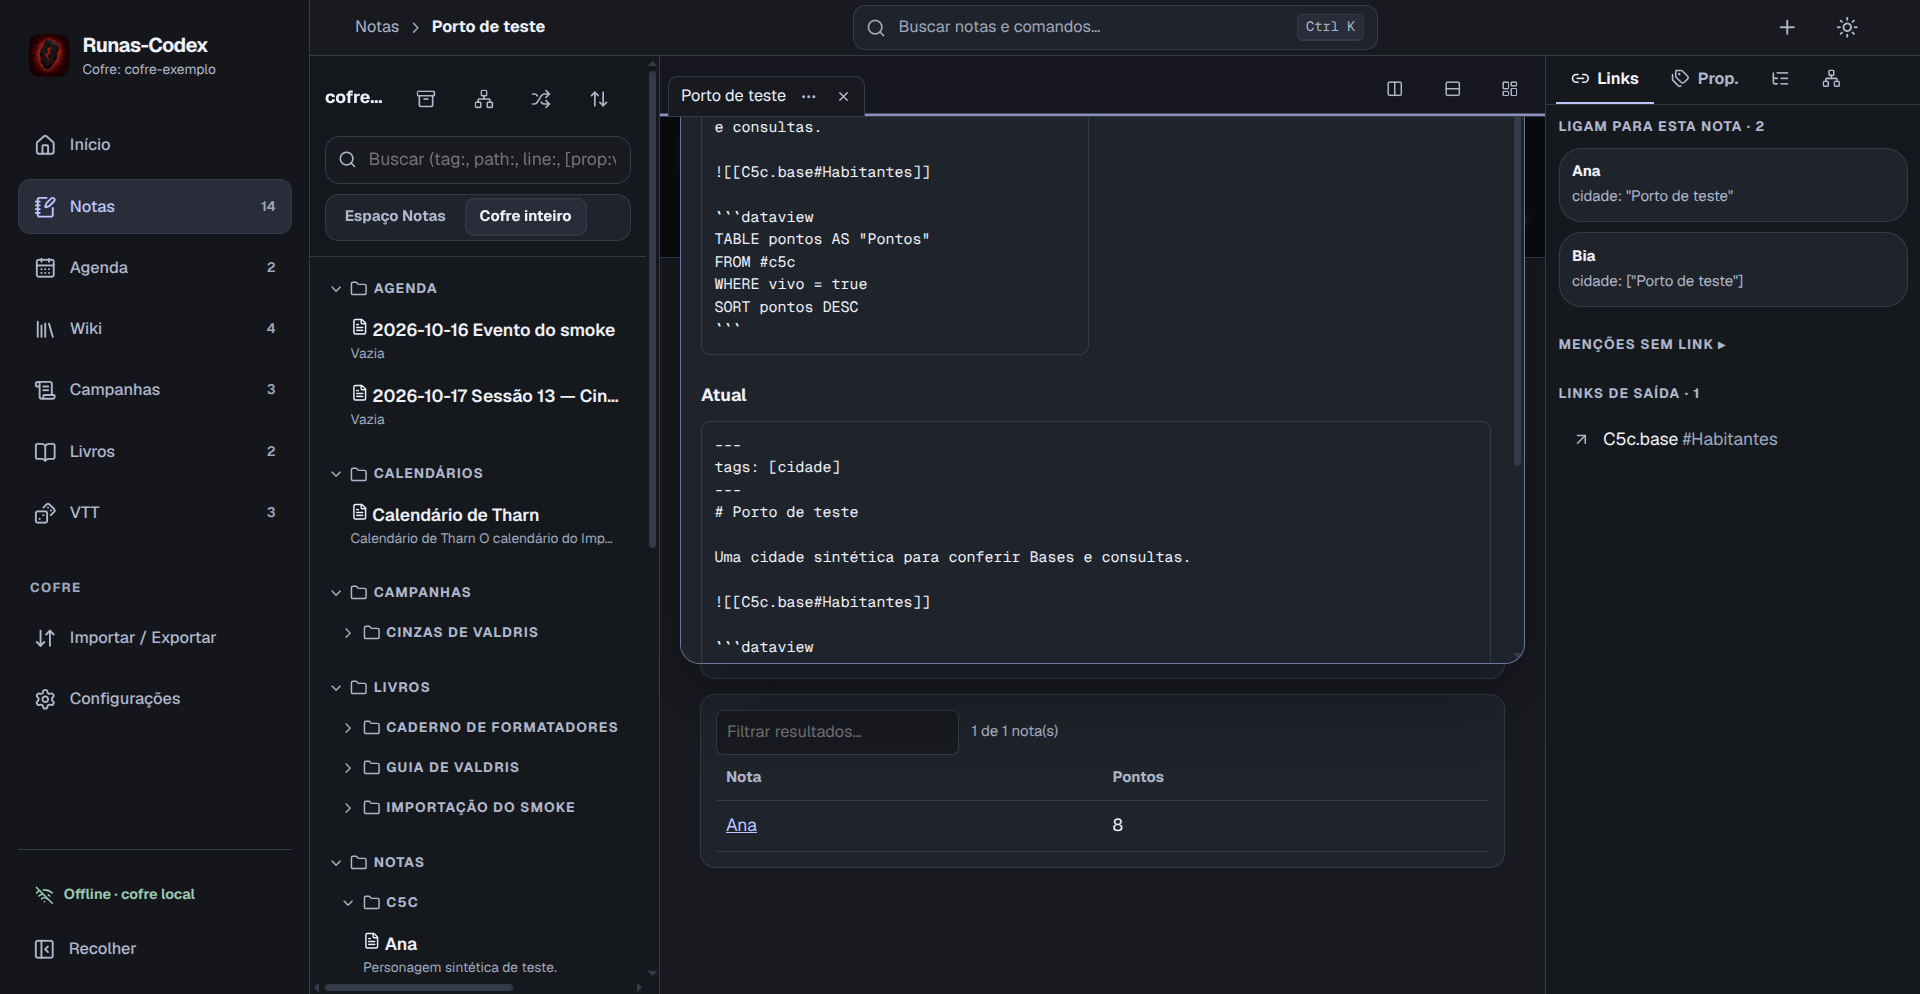
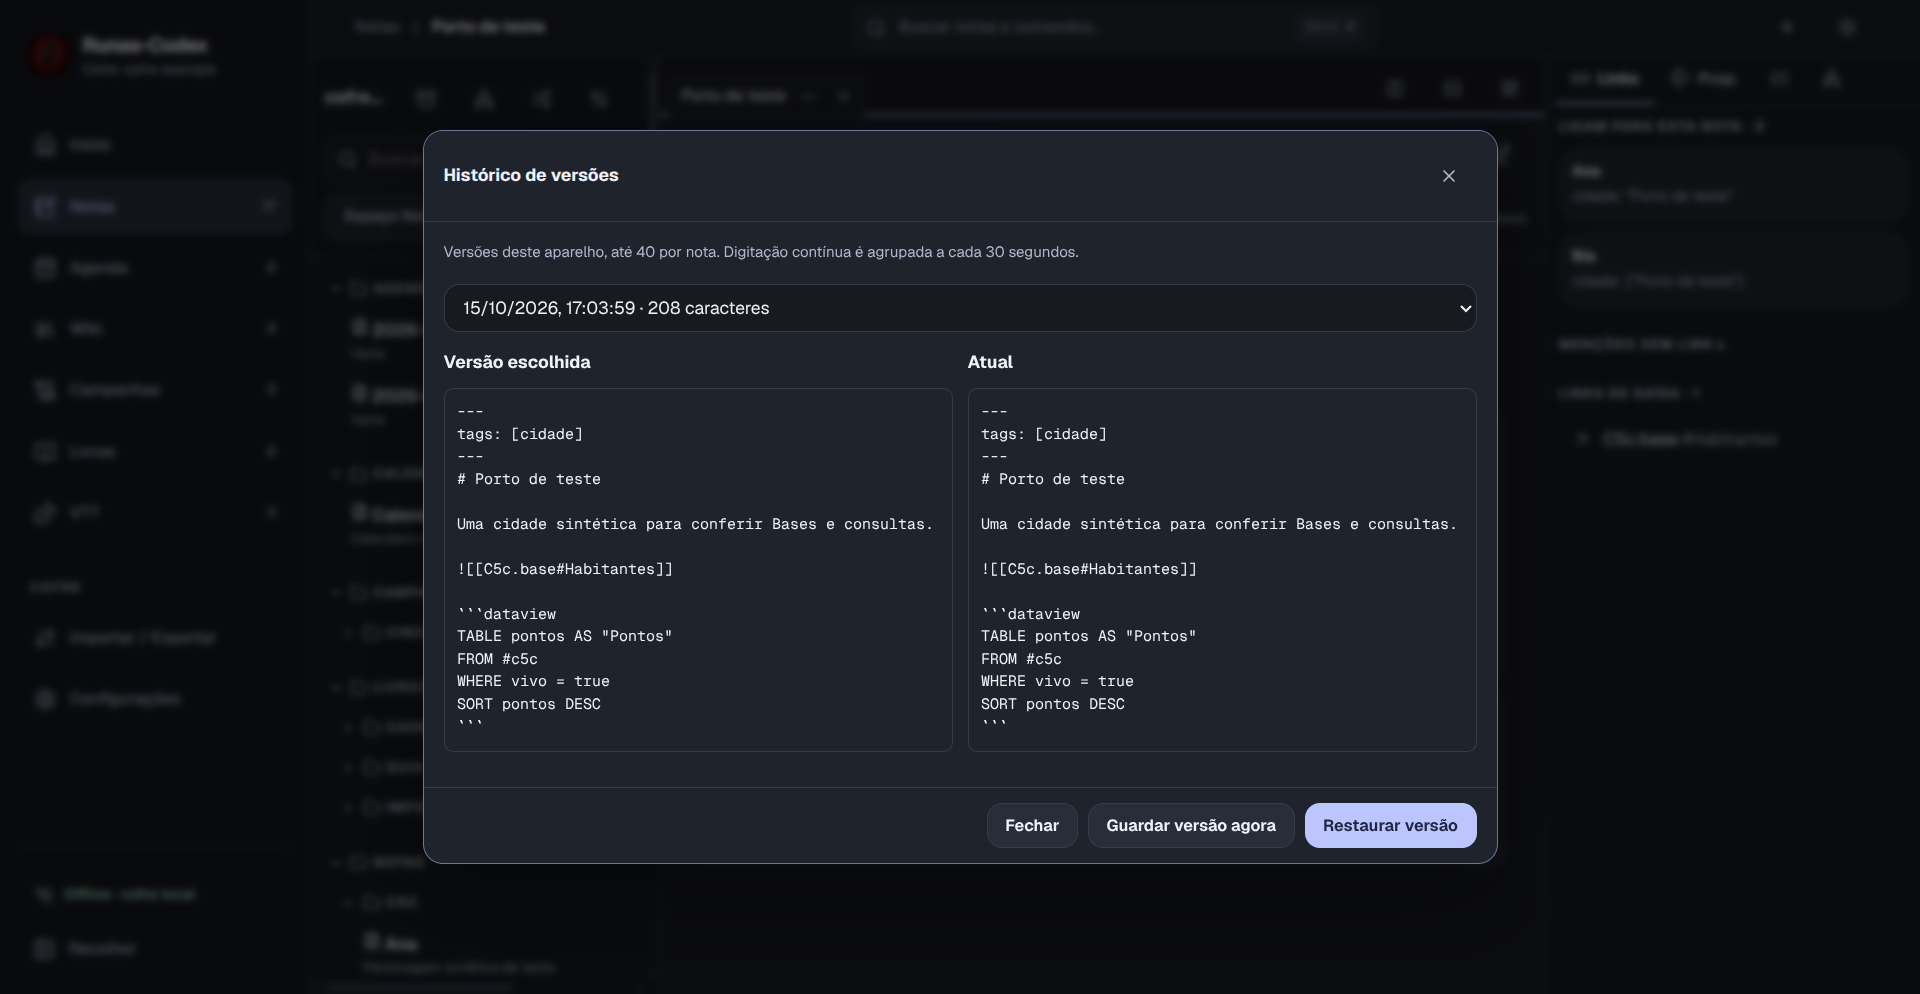
Registra a revisão visual dos diálogos no desktop e no celular

diff --git a/app/src/components/vault/note-actions.css b/app/src/components/vault/note-actions.css
@@ -31,11 +31,12 @@
 /* Histórico e ferramentas da C5c: rolagem dentro da comparação, inclusive no celular. */
 .version-compare { display: grid; grid-template-columns: repeat(2, minmax(0, 1fr)); gap: 12px; }
 .version-compare section { min-width: 0; }
-.version-compare section:last-child { grid-column: 1 / -1; }
+.version-compare > section:nth-child(3) { grid-column: 1 / -1; }
 .version-compare pre, .note-tool-preview { max-height: 40vh; overflow: auto; white-space: pre-wrap; overflow-wrap: anywhere; font-family: var(--font-mono); font-size: 12px; padding: 10px; border: 1px solid var(--line); border-radius: 8px; }
 .version-removed { color: var(--red); }
 .version-added { color: var(--green); }
 .note-word-count { margin-left: auto; white-space: nowrap; }
+.note-tools-menu button { min-height: 44px; }
 .customization-settings { min-width: 0; }
 .customization-settings .settings-row { display: flex; flex-wrap: wrap; align-items: center; justify-content: space-between; gap: 8px; padding-block: 6px; }
 .customization-settings input, .customization-settings textarea { max-width: 100%; min-width: 0; }

diff --git a/docs/tarefas/README.md b/docs/tarefas/README.md
@@ -107,7 +107,7 @@ celular (C3). O toque (X3) e o fechamento dos módulos atualizam a ADR de cada m
 | Corretor ortográfico sem rede | Claude Code | `desktop/corretor-offline` | [ADR 0018](../adr/0018-corretor-offline.md) | mesclada (PR #22) |
 | **C5a** Notas: links, gráfico e notas pessoais (A.1, A.2, F.1) | Claude Code | `notas/c5a-links-grafico` | [fechamento-modulos.md](fechamento-modulos.md) | mesclada (PR #24) |
 | **C5b** Notas: organização e busca (A.3, primeira parte) | Claude Code | `notas/c5b-organizacao` | [fechamento-modulos.md](fechamento-modulos.md) | mesclada (PR #25) |
-| **C5c** Notas: o resto do A.3 | Claude Code, continuada pelo Codex | `notas/c5c-conclusao` | [fechamento-modulos.md](fechamento-modulos.md) | em revisão; depende do leitor #26 |
+| **C5c** Notas: o resto do A.3 | Claude Code, continuada pelo Codex | `notas/c5c-conclusao` | [fechamento-modulos.md](fechamento-modulos.md) | em revisão (PR #27); depende do leitor #26 |
 
 ## Quem mexe em quê
 

diff --git a/docs/adr/0019-fechamento-notas-links.md b/docs/adr/0019-fechamento-notas-links.md
@@ -129,6 +129,8 @@ O ponto de extensão de arquivos embutidos fica no PR pequeno do leitor #26; est
 painéis, na horizontal ou vertical. Cada painel mantém suas abas. A rota representa a aba do painel em foco.
 O arranjo e os workspaces nomeados ficam no aparelho, por cofre, em `localStorage`. No celular aparece um painel
 por vez, com seletor de painel e botão de ações da aba (não depende de arrastar nem de clique direito).
+Menus e diálogos das ferramentas usam portais no `body`, para a contenção CSS da barra não cortar sua área visível.
+O smoke confere os limites do menu e do diálogo; a verificação da interface também os mede em 320 px.
 
 **Janelas de nota:** `desktop/main/windows.ts` abre outra janela com o mesmo isolamento e preload, aceitando só
 rotas de notas. A autorização do IPC acrescenta exatamente as janelas criadas por esse controlador. As gravações
